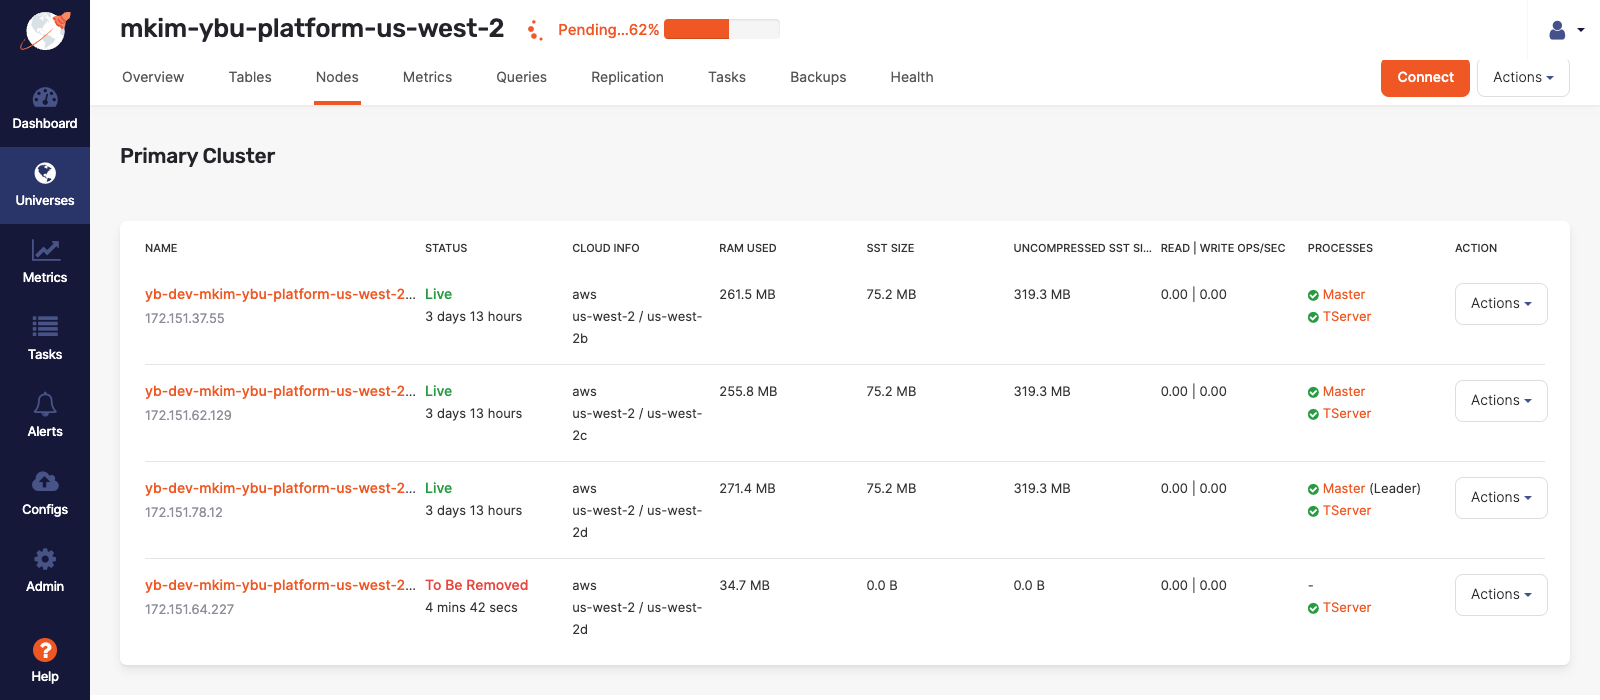
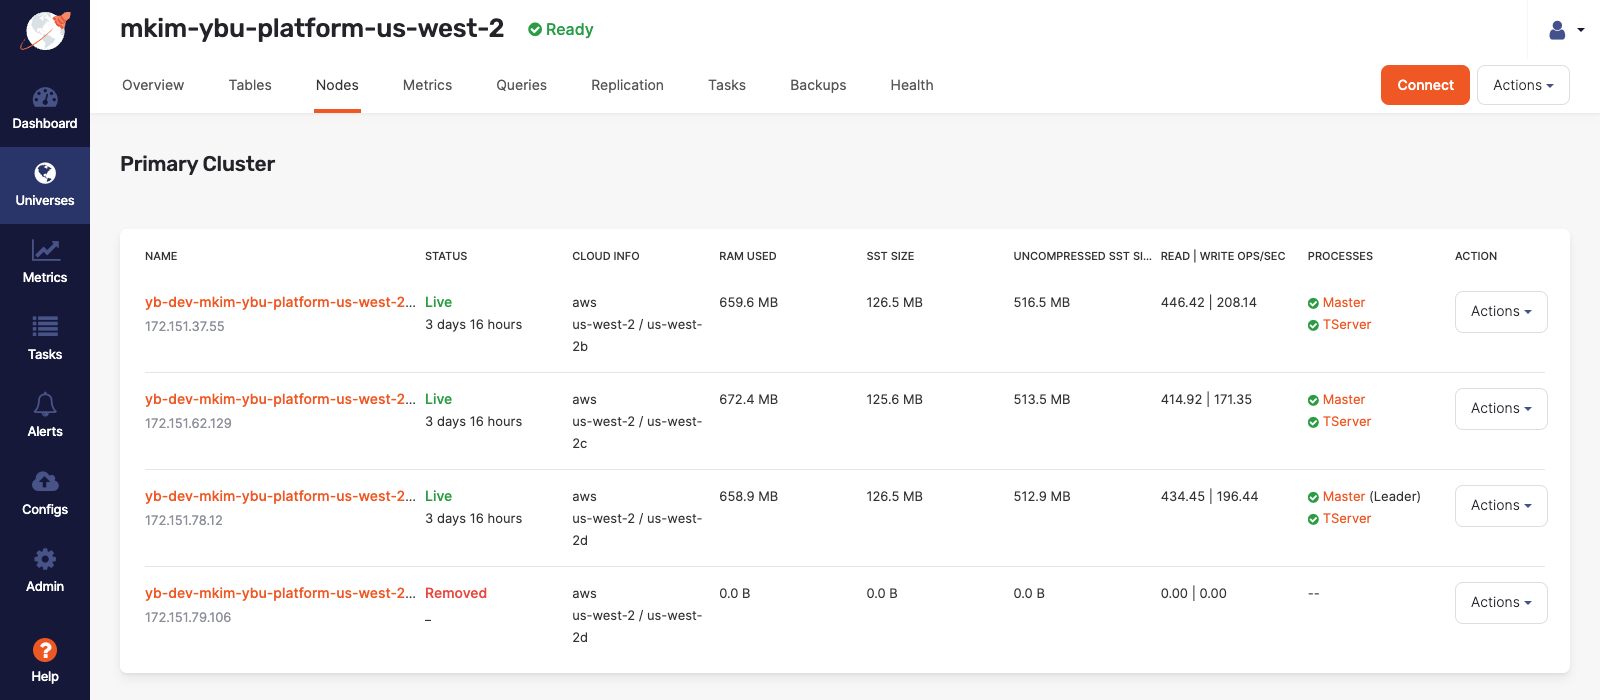
remove node

diff --git a/TFE/YBU-66/ybu-66.md b/TFE/YBU-66/ybu-66.md
@@ -2,9 +2,7 @@
 
 ## Introduction
 
-In this hands-on lab, you will scale a cluster up and down to demonstrate how a Universe in Yugabyte Platform is able to react to a change in the capacity of the cluster.  In the real world, a capacity change of a cluster due to an increase in traffic or a hardware failure is inevitable and important to demonstrate to clients. Demonstrating fault tolerance of the Yugabyte Platform is a mission critical POC to any client.
-
-This lab will show how easy it is to add and eliminate a node in the cluster to demonstrate the load balancing ability of the Raft Consensus algorithm.
+In this hands-on lab, you will scale a cluster up and down to demonstrate how a Universe in Yugabyte Platform is able to react to a change in the capacity of the cluster.  In the real world, a cluster's capacity could change due to any number of reasons including increases in traffic due to a special event or a hardware failure. Demonstrating the dynamic auto load balancing ability of a Yugabyte Universe is a critical POC to any client.
 
 This lab will use a three-node multi-zone single region Universe that has run the `SqlInserts`, `SqlSecondaryIndex`, and `SqlSnapshotTxns` key-value YSQL workloads on AWS.
 
@@ -14,36 +12,56 @@ As a sales engineer, I want to demonstrate the auto load balancing ability of th
 
 ## Prerequisites
 
-* A deployed three node Universe on AWS. For information on how to deploy this review a previous lab on multi-zone Universe deployment.
+* A deployed three node Universe on AWS will be used to demonstrate scaling up and down. For information on how to deploy this review a previous lab on multi-zone Universe deployment.
 
-* The Universe will run the `SqlInserts`, `SqlSecondaryIndex`, and `SqlSnapshotTxns` YSQL key-value workloads from the [`yb-sample-apps` repository](https://github.com/yugabyte/yb-sample-apps). For a detailed overview on how to do this, review the lab on YSQL workload execution on a Yugabyte Universe.
+* The Universe will run the `SqlInserts`, `SqlSecondaryIndex`, and `SqlSnapshotTxns` YSQL key-value workloads from the [`yb-sample-apps` repository](https://github.com/yugabyte/yb-sample-apps). For a detailed overview on how to do this, review the lab on running YSQL workloads on a Yugabyte Universe.
 
-## Scale up the Yugabyte Universe
+## Scale Up a Yugabyte Universe
 
-In this step, you will scale up the Yugabyte Universe. You will increase the available capacity by adding a node to the current three node cluster.
+In this step, you will scale up the Yugabyte Universe. You will increase the available capacity by adding a node to the current three node cluster and note the speed at which the Universe is able to auto balance the workload.
 
-Normally this process is done whenever the current cluster topology is inadequate to handle a workload. That could be due to an increase in traffic due to a growth in an app's popularity or there is an expected spike in traffic due to a special event or promotion.
+Normally scaling up a cluster is necessary whenever the current cluster topology is inadequate to handle a workload. That could be due to an increase in traffic due to a growth in an app's popularity or there is an expected spike in traffic due to a special event or promotion.
 
 The first step is to sign into Yugabyte Platform and select the Universe that is running the YSQL workloads. Any workload will do for this lab however, but we will use this workload's usage metrics to illustrate the workload changes for each node.
 
-You will see the following image once the Universe has been selected:
+You will see the Universe details page once the Universe has been selected:
 
-![Description of this action.](./assets/images/100-edit_universe_1600x700.png)
+![The Yugabyte Universe overview page displays the current workloads.](./assets/images/100-universe_overview_1600x700.png)
 
-On the preceding Universe details page, select the "Actions" dropdown button located under the profile icon in the upper right corner.
+In the preceding image, you can see that this Universe is a three node cluster with four tables actively processing writes and reads.
 
-Select the "Edit Universe" from the dropdown list to navigate to the following form:
+Select the "Actions" dropdown button located under the profile icon in the upper right corner of the page.
+
+Select the "Edit Universe" option from the dropdown list to navigate to the following form:
 
 ![Scale up this cluster by increasing the amount of nodes in this Yugabyte Universe.](./assets/images/150-add_node_1600x700.png)
 
-As shown in the preceding form, an increase in the current nodes from three to four was done by increasing the Nodes property to four. By doing this, the corresponding additional node was added to one of the availability zones in the Universe.
+In the preceding form, increase the current nodes from three to four. Notice a node was added to one of the availability zones in the Universe automatically.
 
 Select "Save" at the bottom of the page.
 
-You will then be redirected to the Universe details page where a status bar appears at the top of the Universe details page.
+You will then be redirected to the Universe details page where a status bar indicates the progress of the new task.
 
-Select the "Nodes" tab on the Universe details page to see that the new node is in the state "Unreachable" while the node is being added to the Universe. Once this process has concluded, you will see that the new node has changed to "Live" status as shown in the following image:
+Select the "Nodes" tab on the Universe details page to see that the new node has been added but its status is currently "Unreachable". Once this process has concluded, you will see that the new node has changed to "Live" status as shown in the following image:
 
 ![A new node has been successfully added to the Yugabyte Universe.](./assets/images/200-four_node_1600x700.png)
 
-Notice in the preceding image that within a few minutes, the new node has successfully begun to balance the load from the other nodes. The new node is actively participating in the Universe by receiving read and write operations. The SST or Sorted String Tables have also been distributed to the new node. Notice that the `TServer` process but not the `Master` process. This is due to the Raft consensus algorithm which must be an odd number. For more details on this, review the [blog post regarding the Raft Consensus Replication Protocol.](https://blog.yugabyte.com/how-does-the-raft-consensus-based-replication-protocol-work-in-yugabyte-db/)
+Notice in the preceding image that within a few minutes, the new node has successfully begun to rebalance the workload from the other nodes. The new node is actively participating in the Universe by receiving read and write operations. The SST or Sorted String Tables have also been distributed to the new node. Notice that the `TServer` process, but not the `Master` process is running on the new node. This is due to the Raft consensus algorithm which allocates the number of Master process in direction relation to the Replication Factor, which is three in this Universe. For more details on this, review the [blog post regarding the Raft Consensus Replication Protocol.](https://blog.yugabyte.com/how-does-the-raft-consensus-based-replication-protocol-work-in-yugabyte-db/)
+
+## Scale Down a Yugabyte Universe
+
+In the last step, you scaled up a Yugabyte Universe by adding a node. This demonstrated how a Universe is able to auto balance the read and write operations onto the new node. In this step, you will scale the Universe down by removing a node.
+
+Navigate to the "Nodes" tab on the Yugabyte Platform console to view the current configuration of four nodes as shown in the following image:
+
+![A four node cluster has auto balanced the read and write operations.](./assets/images/200-four_node_1600x700.png)
+
+Select the "Actions" button for the new node that was added in the last step.
+
+Select "Remove Node" as shown in the following image:
+
+![Remove a node from the cluster.](./assets/images/400-remove_node_1600x700.png)
+
+As the Universe removes the node, notice that the read and write operations are automatically rebalanced on the remaining nodes in the cluster. Within a few minutes, the Universe has rebalanced the workload including the SST files onto the remaining working nodes.
+
+> **Pro Tip:** Note that a node can also be removed by editing the Universe and reducing the number of nodes, similar to the process of adding a node that was completed in a previous step in this lab.
